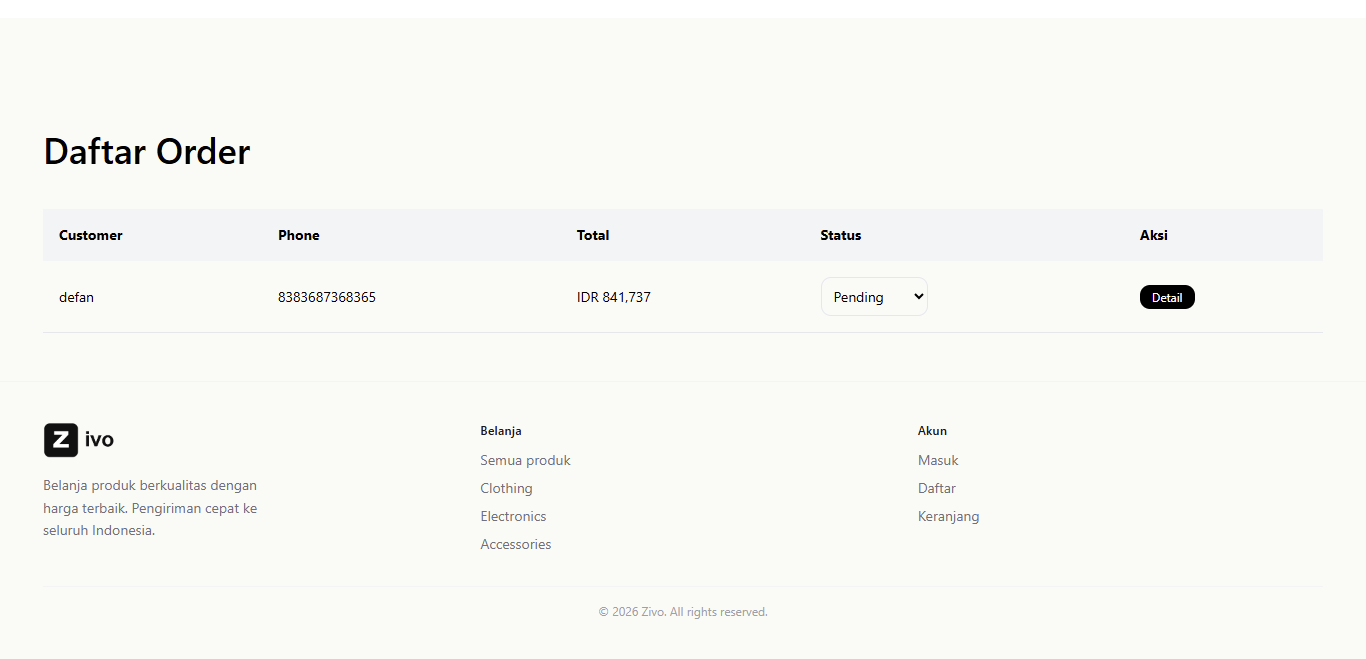
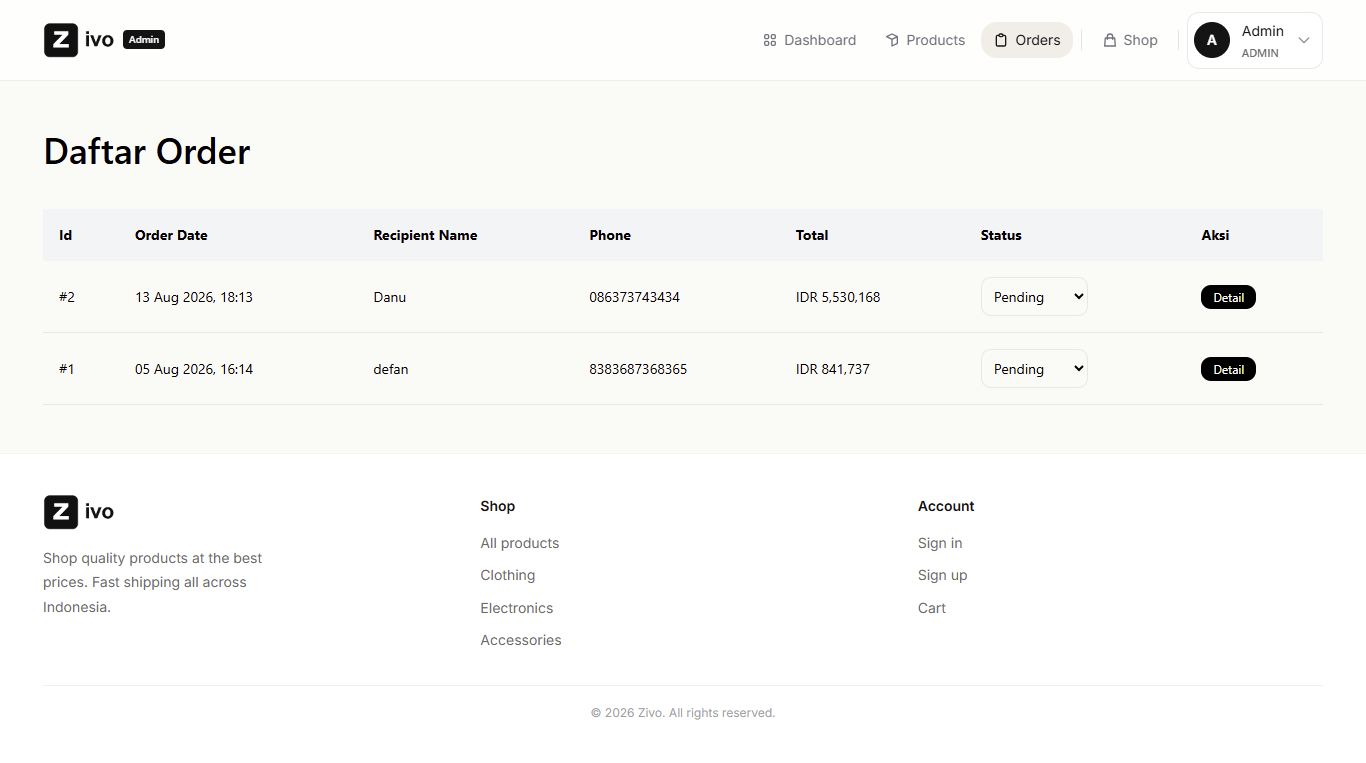
update image order and order detail admin

diff --git a/README.md b/README.md
@@ -491,6 +491,12 @@ Authentication and admin access are protected using Angular route guards.
 
 ---
 
+### 📋 Order Detail
+
+![Order Detail](docs/images/admin/order-detail.png)
+
+---
+
 ## 📦 Source Code
 
 | Repository | Description |
